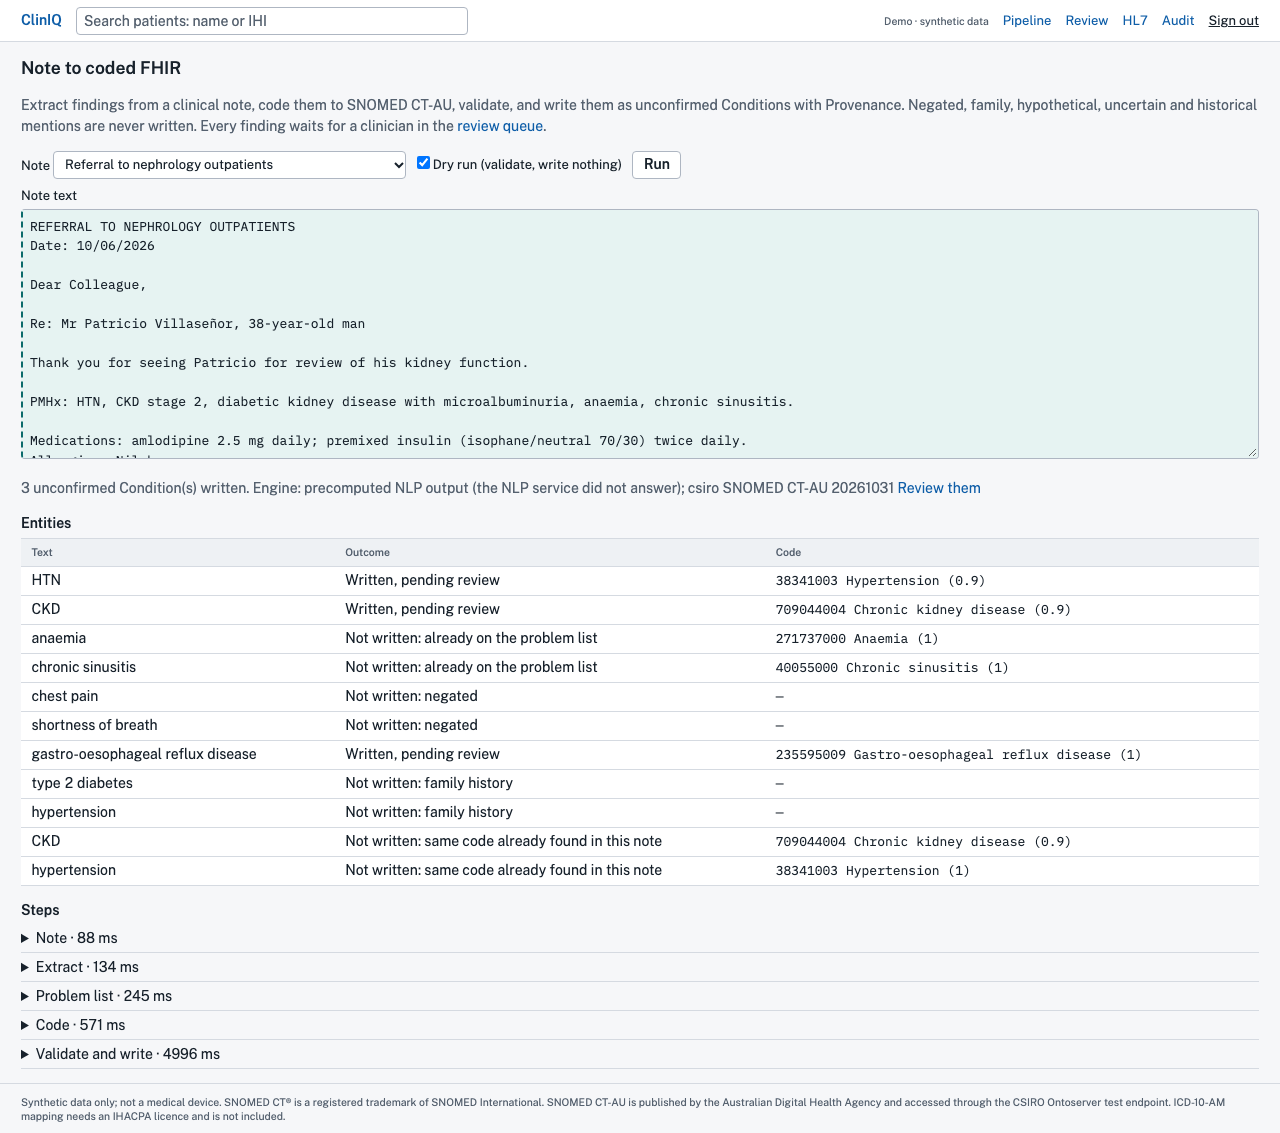
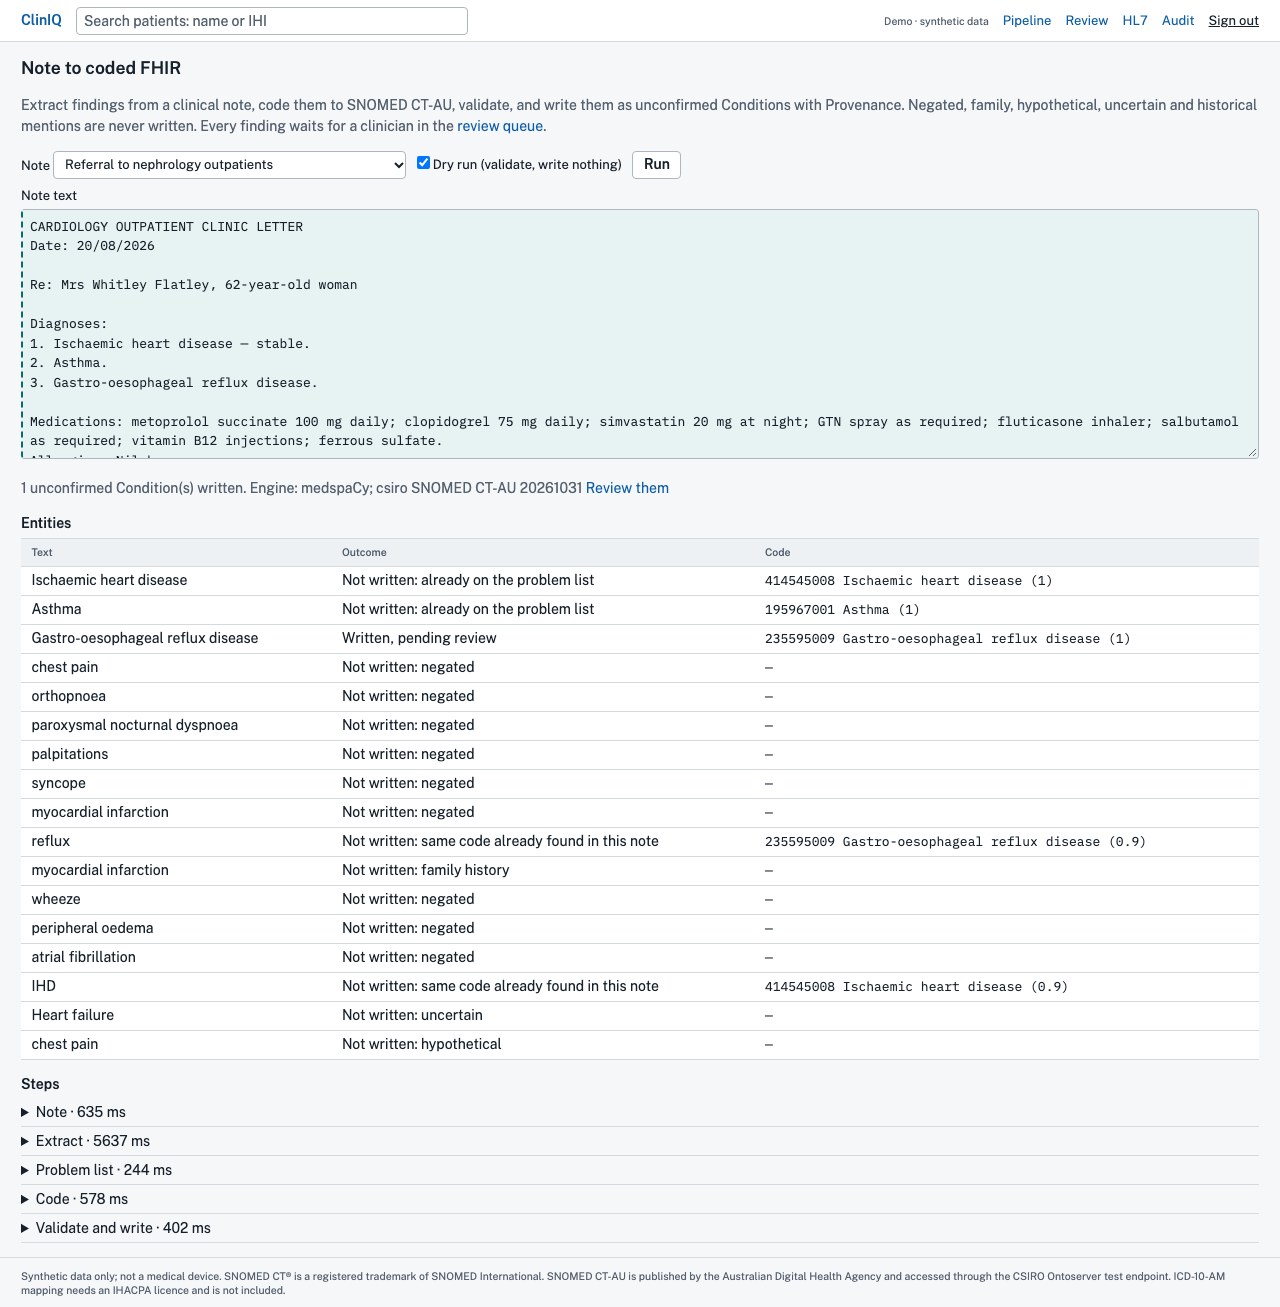
docs: M11 live verification
Claude-Session: https://claude.ai/code/session_01NrsdG1DDaTXCcYvXVBHXXZ

diff --git a/tests/live/live.spec.ts b/tests/live/live.spec.ts
@@ -31,16 +31,22 @@ test("live: the patient summary export works", async ({ page }) => {
   await page.screenshot({ path: "docs/ui/screens/m8/live-summary.png", fullPage: true });
 });
 
-test("live: paste-free flow — run sample note 1, confirm in /review, see it confirmed on the chart", async ({ page }) => {
+test("live: run a sample note, confirm a finding in /review", async ({ page }) => {
   await page.goto("/sign-in");
   await page.getByRole("button", { name: "Sign in as demo clinician" }).click();
   await page.waitForURL("**/patients", { timeout: 180_000 });
   await page.goto("/pipeline");
+  const label = (await page
+    .getByRole("option", { name: /cardiology/i })
+    .first()
+    .textContent())!;
+  await page.getByRole("combobox", { name: /Note/ }).selectOption({ label });
   await page.getByRole("checkbox", { name: /Dry run/ }).uncheck();
   await page.getByRole("button", { name: "Run" }).click();
   const result = page.getByTestId("pipeline-result");
   await expect(result).toBeVisible({ timeout: 180_000 });
   console.log((await result.innerText()).slice(0, 1500));
+  await expect(result).toContainText("Engine: medspaCy"); // the live NLP service answered, not the saved output
   await expect(result).toContainText("Written, pending review");
   await page.screenshot({ path: "docs/ui/screens/m11/live-pipeline.png", fullPage: true });
   await page.goto("/review");
@@ -49,5 +55,8 @@ test("live: paste-free flow — run sample note 1, confirm in /review, see it co
   console.log(text);
   await page.screenshot({ path: "docs/ui/screens/m11/live-review.png", fullPage: true });
   await card.getByRole("button", { name: "Confirm" }).click();
-  await expect(page.getByTestId("review-item").first()).not.toHaveAttribute("data-item-id", (await card.getAttribute("data-item-id")) ?? "");
+  await expect(page.getByTestId("review-item").first()).not.toHaveAttribute(
+    "data-item-id",
+    (await card.getAttribute("data-item-id")) ?? "",
+  );
 });

diff --git a/README.md b/README.md
@@ -74,7 +74,7 @@ IHACPA. See [`SPEC.md`](SPEC.md) for the plan.
 | M8 | Done: AU Patient Summary export (readable view + FHIR JSON), 0 validator errors on 3 patients ([report](docs/validation/au-ps.md)) |
 | M9 | Built: medspaCy NLP service on Cloud Run (C1–C16 pass), `precomputed` fallback. Needs the invoker grant and `NLP_SERVICE_URL` |
 | M10 | Built: SNOMED CT-AU coding (NCTS when credentials exist, CSIRO test endpoint, offline for tests), live run 0 mismatches ([report](docs/validation/terminology.md)) |
-| M11 | Built: note → code → validate → write as unconfirmed Conditions with Provenance; `/review` queue (confirm, change, reject); W1–W12 pass locally |
+| M11 | Built: note → code → validate → write as unconfirmed Conditions with Provenance; `/review` queue (confirm, change, reject); W1–W12 pass locally and the flow is verified live ([screenshot](docs/ui/screens/m11/live-review.png)) |
 | M12–M15 | Not started |
 
 Decisions and their reasons are in [`DECISIONS.md`](DECISIONS.md); the build is specified in [`SPEC.md`](SPEC.md); the plan and next steps are in
